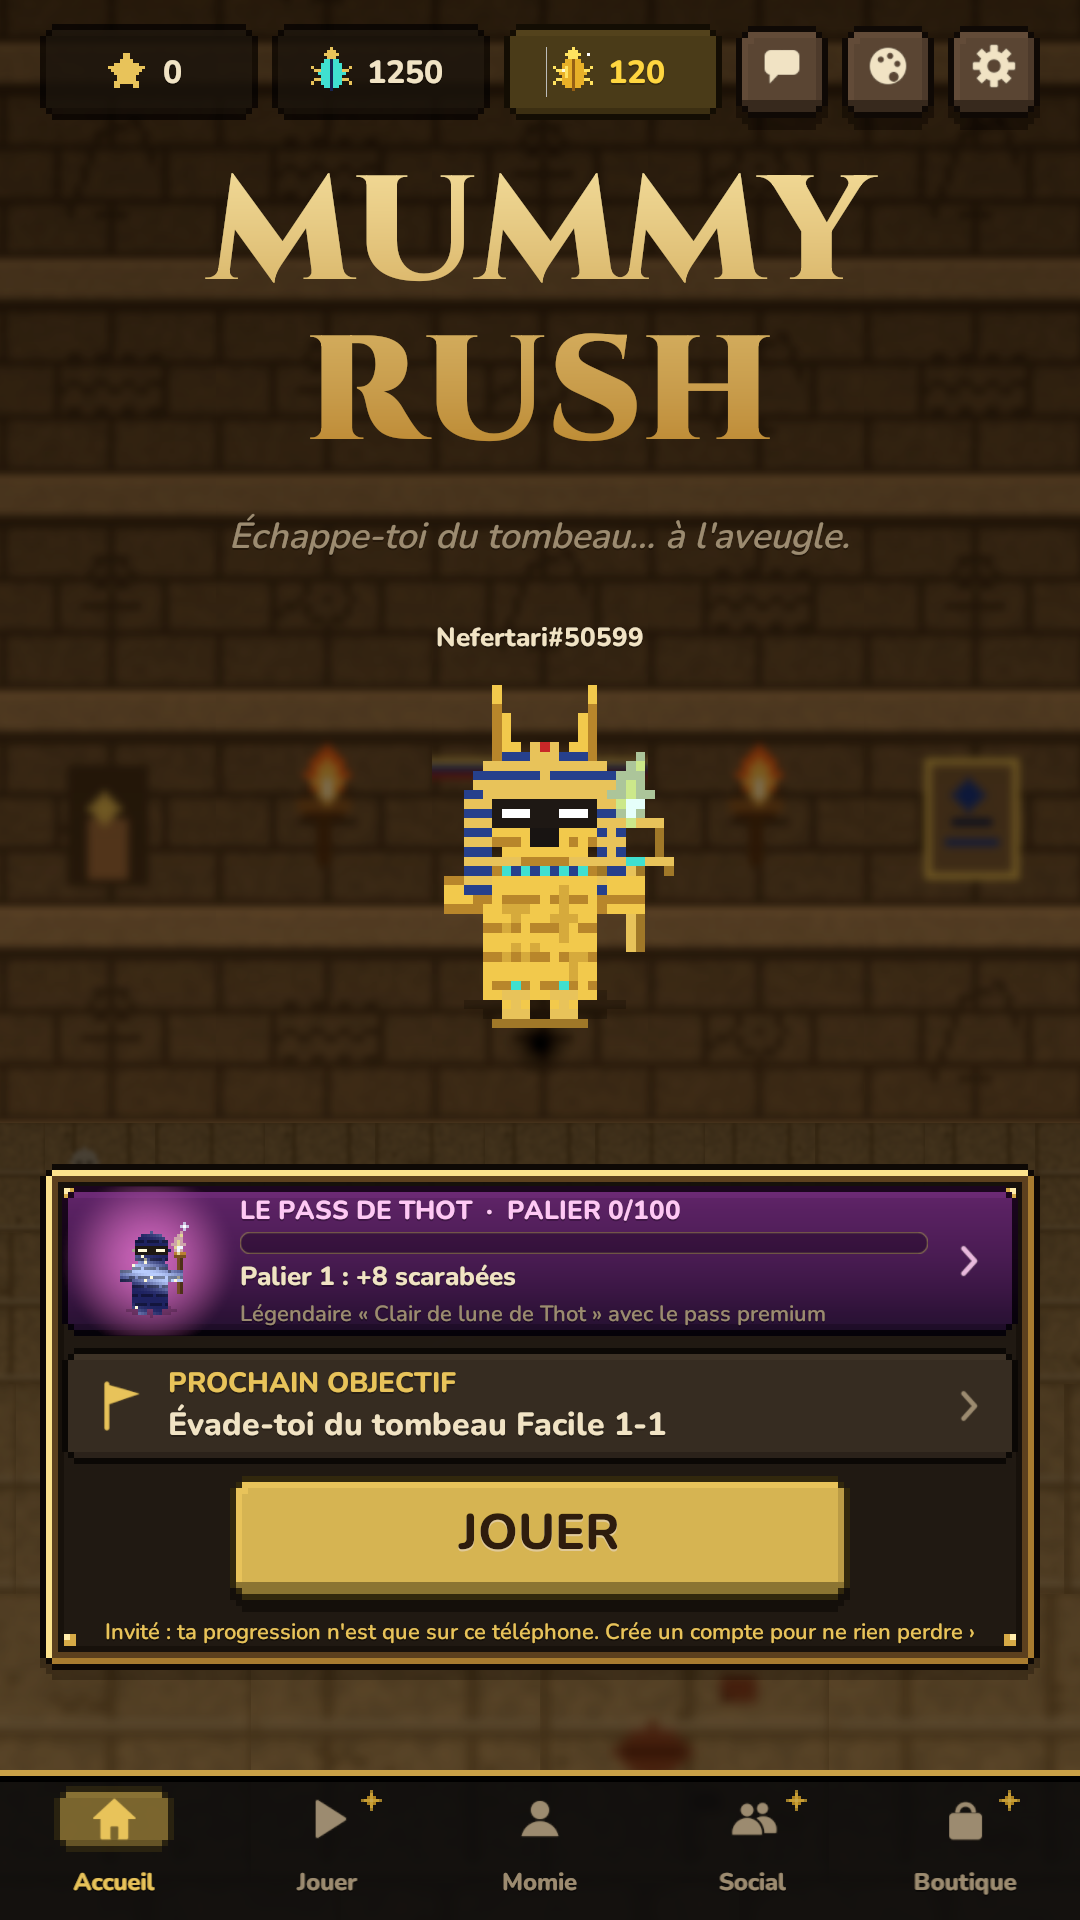
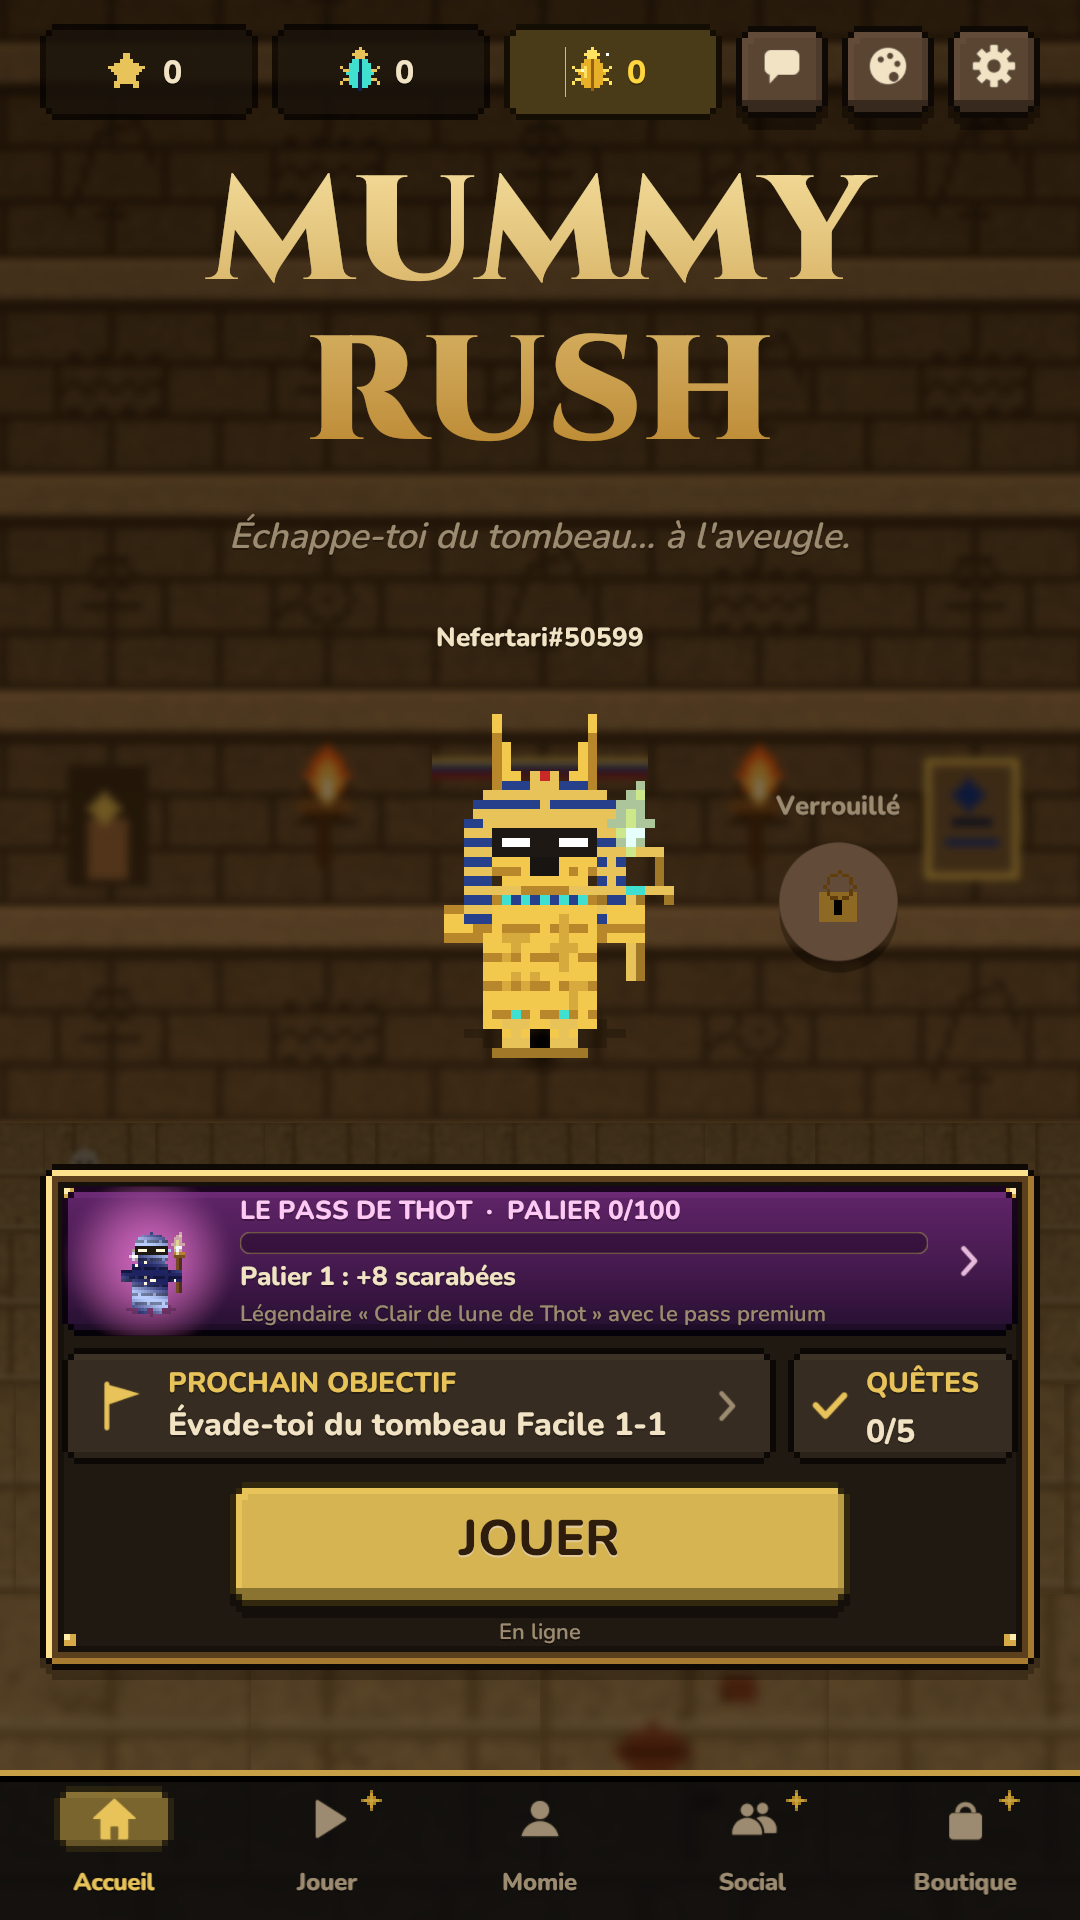
Store listing: home screenshot (01-home) retaken in French and English on the current menu (quests tile, online label)

diff --git a/store/google-play/fiche-fr-FR.md b/store/google-play/fiche-fr-FR.md
@@ -68,4 +68,4 @@ BON À SAVOIR
 | Captures téléphone, fiche anglaise | `phone-en/*.png` (8 captures, jeu en anglais) | 1080 × 1920 (9:16) |
 | Captures tablette 7" et 10" | les mêmes que le téléphone (`phone/` en français, `phone-en/` en anglais) : la console exige du 9:16 ou 16:9 pour les tablettes aussi, le jeu y tourne en portrait | 1080 × 1920 (9:16) |
 
-Les captures sont générées dans l'éditeur (`unity command mummy_capture`). Refaites le 14 octobre 2026 (profil de test « store », Game view 1080 × 1920).
+Les captures sont générées dans l'éditeur (`unity command mummy_capture`). Refaites le 14 octobre 2026, accueil (`01-home`) refait le 30 octobre 2026 (profil de test « store », Game view 1080 × 1920).
